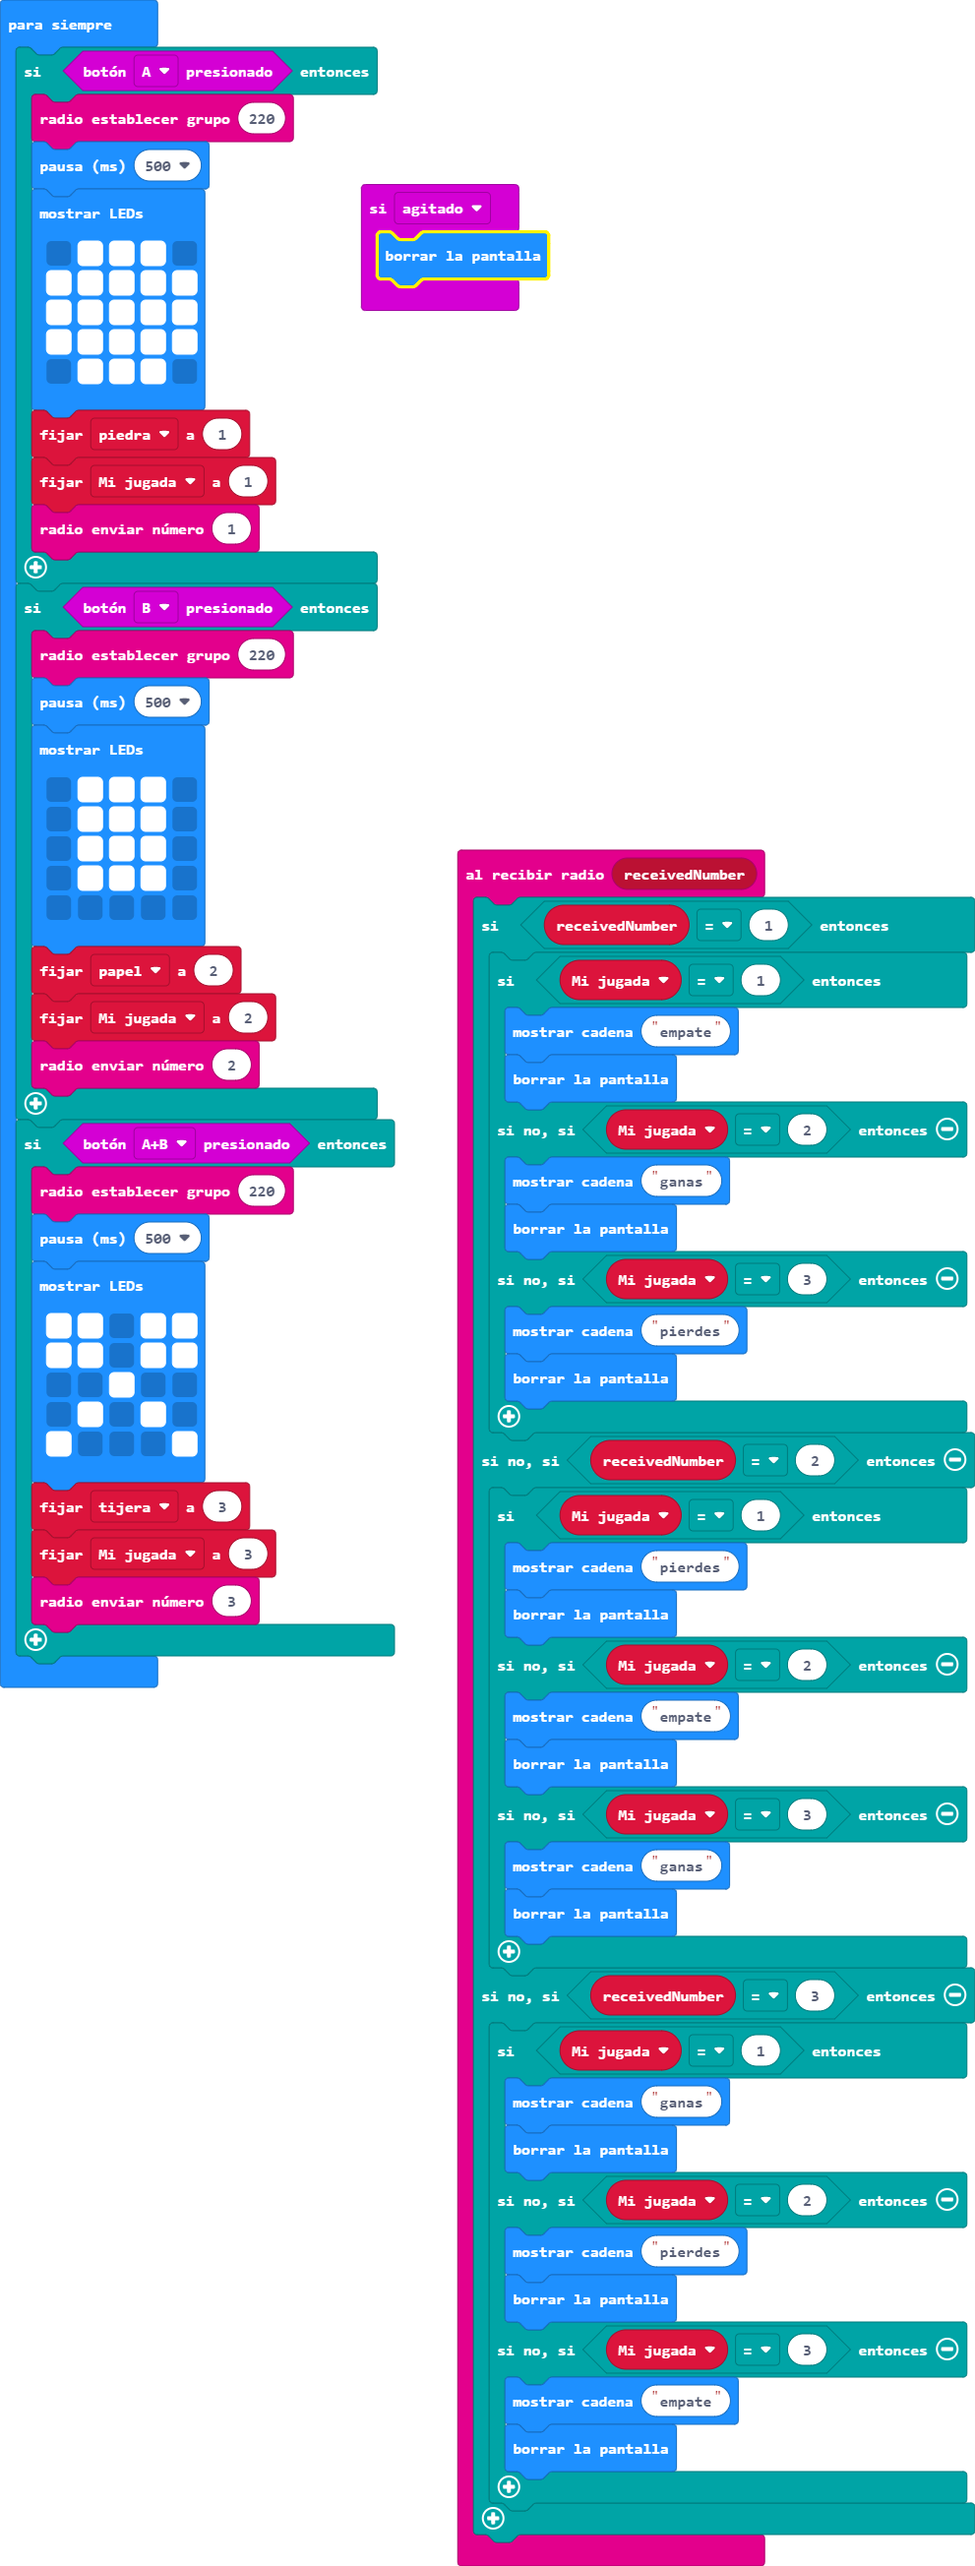
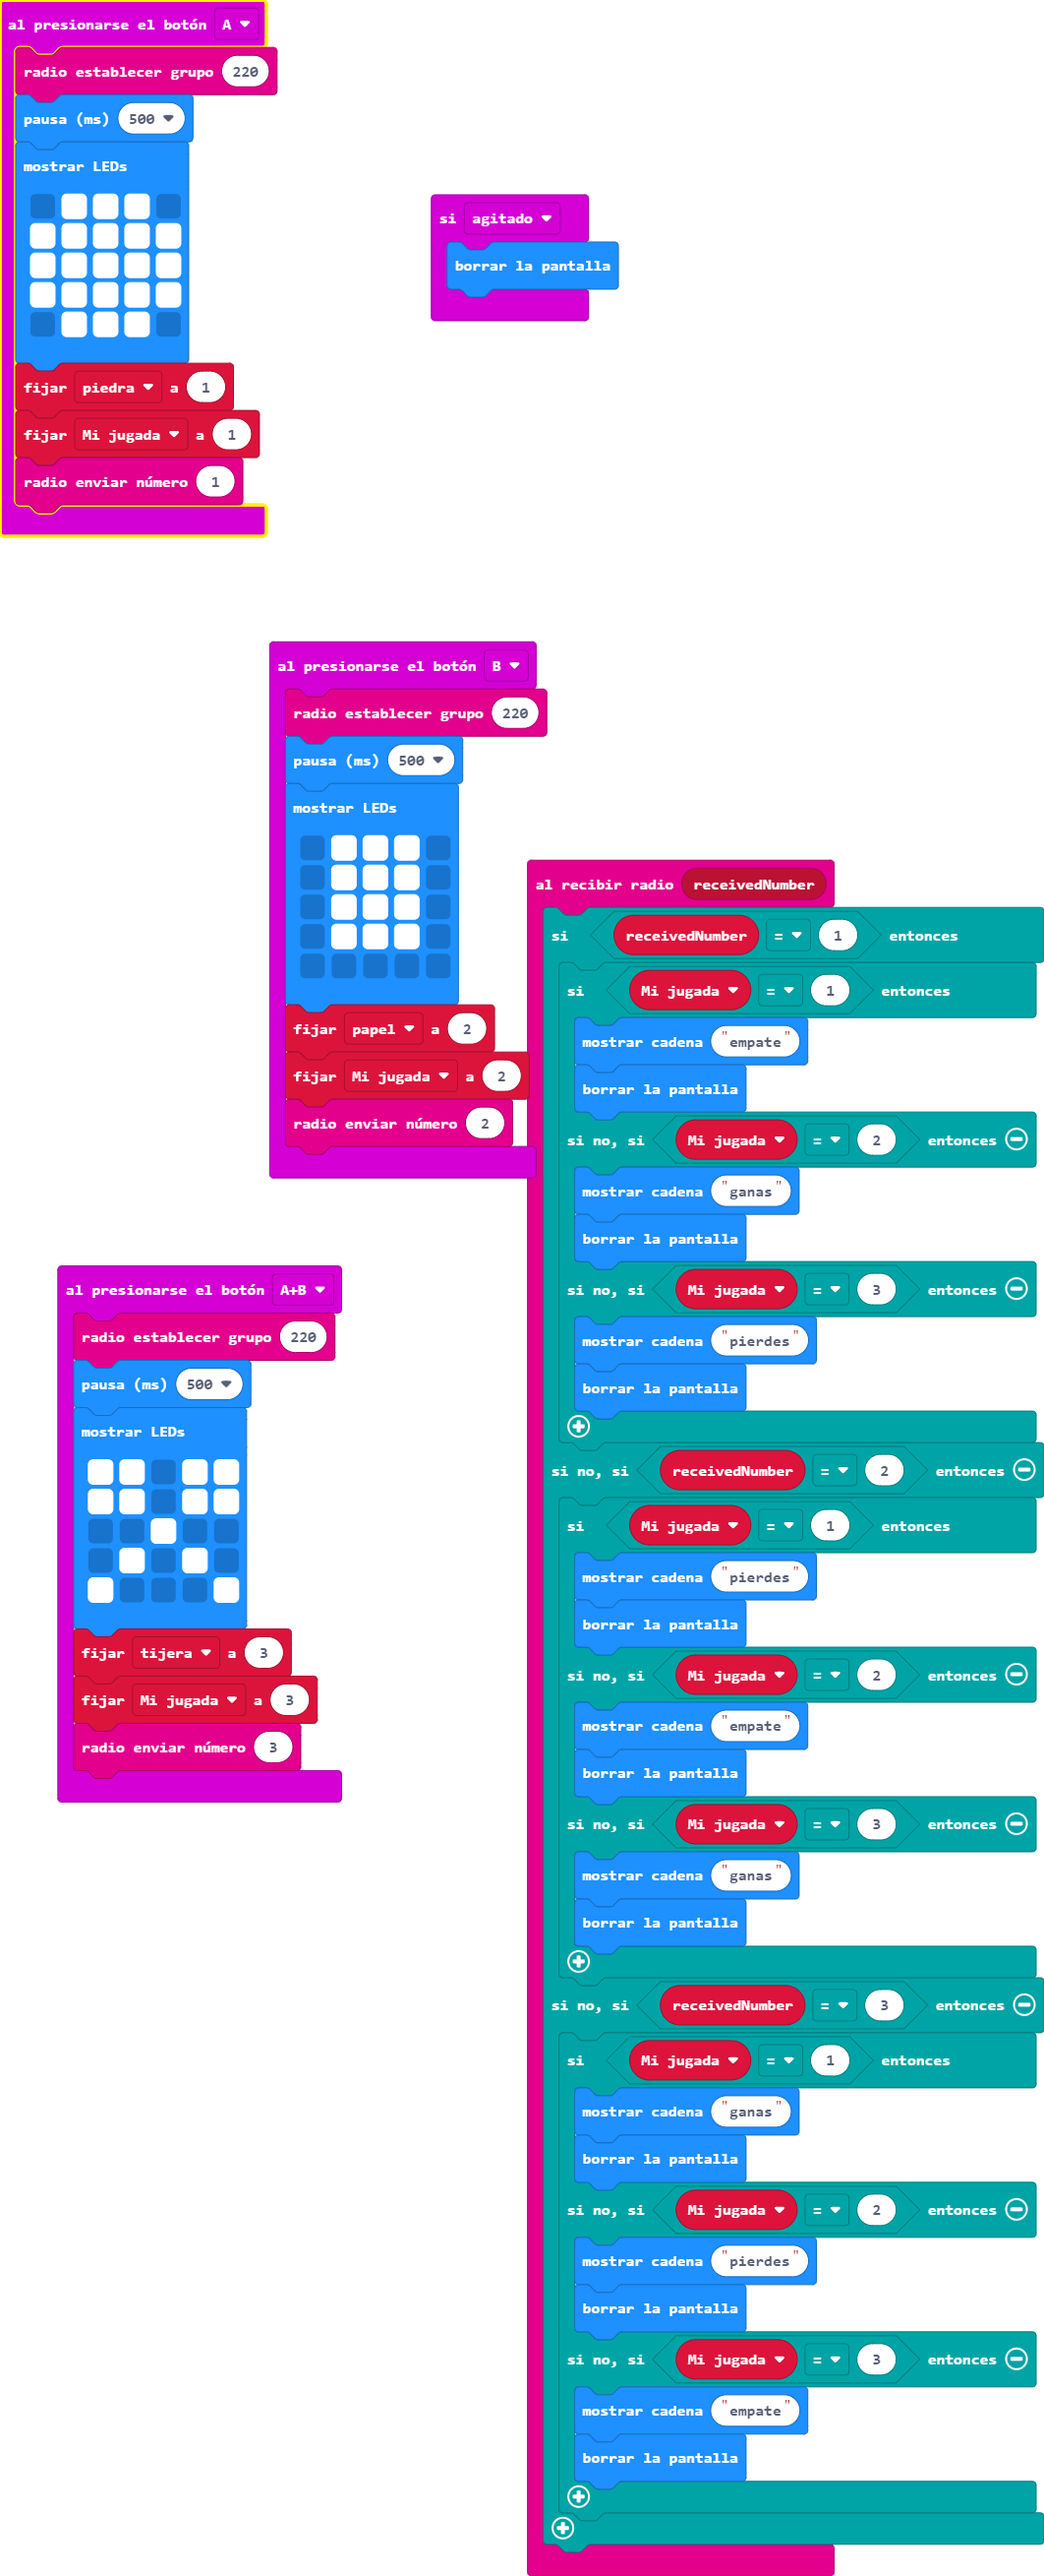
Actualizar main.blocks, main.ts

diff --git a/main.ts b/main.ts
@@ -1,7 +1,7 @@
 let Mi_jugada = 0
 let piedra = 0
-let papel = 0
 let tijera = 0
+let papel = 0
 radio.onReceivedNumber(function (receivedNumber) {
     if (receivedNumber == 1) {
         if (Mi_jugada == 1) {
@@ -38,50 +38,48 @@ radio.onReceivedNumber(function (receivedNumber) {
         }
     }
 })
+input.onButtonPressed(Button.A, function () {
+    radio.setGroup(220)
+    basic.pause(500)
+    basic.showLeds(`
+        . # # # .
+        # # # # #
+        # # # # #
+        # # # # #
+        . # # # .
+        `)
+    piedra = 1
+    Mi_jugada = 1
+    radio.sendNumber(1)
+})
 input.onGesture(Gesture.Shake, function () {
     basic.clearScreen()
 })
-basic.forever(function () {
-    if (input.buttonIsPressed(Button.A)) {
-        radio.setGroup(220)
-        basic.pause(500)
-        basic.showLeds(`
-            . # # # .
-            # # # # #
-            # # # # #
-            # # # # #
-            . # # # .
-            `)
-        piedra = 1
-        Mi_jugada = 1
-        radio.sendNumber(1)
-    }
-    if (input.buttonIsPressed(Button.B)) {
-        radio.setGroup(220)
-        basic.pause(500)
-        basic.showLeds(`
-            . # # # .
-            . # # # .
-            . # # # .
-            . # # # .
-            . . . . .
-            `)
-        papel = 2
-        Mi_jugada = 2
-        radio.sendNumber(2)
-    }
-    if (input.buttonIsPressed(Button.AB)) {
-        radio.setGroup(220)
-        basic.pause(500)
-        basic.showLeds(`
-            # # . # #
-            # # . # #
-            . . # . .
-            . # . # .
-            # . . . #
-            `)
-        tijera = 3
-        Mi_jugada = 3
-        radio.sendNumber(3)
-    }
+input.onButtonPressed(Button.AB, function () {
+    radio.setGroup(220)
+    basic.pause(500)
+    basic.showLeds(`
+        # # . # #
+        # # . # #
+        . . # . .
+        . # . # .
+        # . . . #
+        `)
+    tijera = 3
+    Mi_jugada = 3
+    radio.sendNumber(3)
+})
+input.onButtonPressed(Button.B, function () {
+    radio.setGroup(220)
+    basic.pause(500)
+    basic.showLeds(`
+        . # # # .
+        . # # # .
+        . # # # .
+        . # # # .
+        . . . . .
+        `)
+    papel = 2
+    Mi_jugada = 2
+    radio.sendNumber(2)
 })
